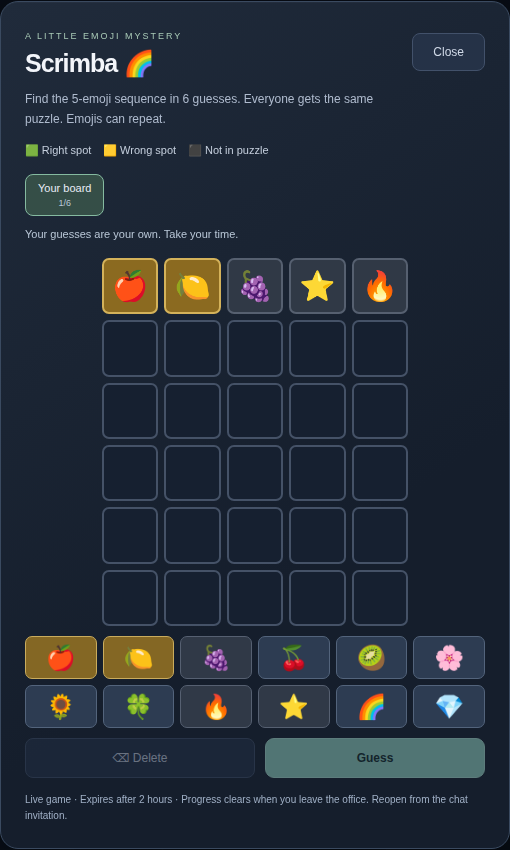
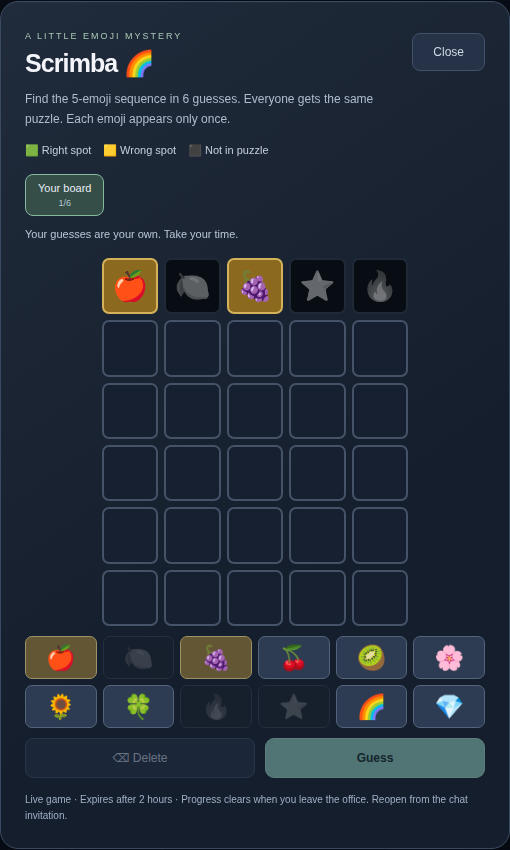
Require unique Scrimba emojis and disable absent choices

Changed region(s): [[0.0294, 0.7341, 0.6471, 0.8565], [0.3235, 0.3059, 0.8235, 0.3671], [0.1471, 0.1224, 0.4412, 0.1529]]

diff --git a/src/Scrimba.tsx b/src/Scrimba.tsx
@@ -20,10 +20,10 @@ export function Scrimba({ game, selfId, send, close, error }: {
     return () => previous?.focus();
   }, []);
 
-  const add = (emoji: string) => setDraft((current) => current.length < rules.slots ? [...current, emoji] : current);
+  const add = (emoji: string) => setDraft((current) => current.length < rules.slots && !current.includes(emoji) && keyboardMarks.get(emoji) !== 'absent' ? [...current, emoji] : current);
   const erase = () => setDraft((current) => current.slice(0, -1));
   const submit = () => {
-    if (!game || !me || me.done || draft.length !== rules.slots) return;
+    if (!game || !me || me.done || draft.length !== rules.slots || draft.some((emoji) => keyboardMarks.get(emoji) === 'absent')) return;
     send({ type: 'scrimba-guess', id: game.id, turn: me.guesses.length, emojis: draft });
     setDraft([]);
   };
@@ -40,7 +40,7 @@ export function Scrimba({ game, selfId, send, close, error }: {
     if (event.key === 'Enter' && event.target === dialog.current) { event.preventDefault(); submit(); }
   }}>
     <div className="scrimba-heading"><div><span className="scrimba-eyebrow">A LITTLE EMOJI MYSTERY</span><h2>Scrimba <span aria-hidden="true">🌈</span></h2></div><button type="button" className="secondary-button" onClick={close} aria-label="Close Scrimba">Close</button></div>
-    <p className="dialog-description">Find the {rules.slots}-emoji sequence in {rules.attempts} guesses. Everyone gets the same puzzle. Emojis can repeat.</p>
+    <p className="dialog-description">Find the {rules.slots}-emoji sequence in {rules.attempts} guesses. Everyone gets the same puzzle. Each emoji appears only once.</p>
     <p className="scrimba-legend"><span>🟩 Right spot</span><span>🟨 Wrong spot</span><span>⬛ Not in puzzle</span></p>
     {!game || !me ? <p role="status">{error || 'Joining Scrimba…'}</p> : <>
       <nav className="scrimba-players" aria-label="Scrimba players">{game.players.map((player) => <button type="button" key={player.id} aria-pressed={viewed?.id === player.id} onClick={() => setViewId(player.id)}>{player.id === selfId ? 'Your board' : player.name}<small>{player.won ? 'Solved' : player.done ? 'Finished' : `${player.guesses.length}/${rules.attempts}`}</small></button>)}</nav>
@@ -53,15 +53,15 @@ export function Scrimba({ game, selfId, send, close, error }: {
             {Array.from({ length: rules.slots }, (_, col) => {
               const emoji = guess?.emojis?.[col] ?? (active ? draft[col] : undefined);
               const mark = guess?.marks[col];
-              return <span className={`scrimba-cell ${mark ?? ''} ${emoji ? 'filled' : ''}`} key={col} aria-label={`Position ${col + 1}: ${emoji ?? (mark ? 'hidden emoji' : 'empty')}${mark ? `, ${markLabels[mark]}` : ''}`}>{emoji ?? (mark ? '?' : '')}</span>;
+              return <span className={`scrimba-cell ${mark ?? ''} ${emoji ? 'filled' : ''}`} key={col} aria-label={`Position ${col + 1}: ${emoji ?? (mark ? 'hidden emoji' : 'empty')}${mark ? `, ${markLabels[mark]}` : ''}`}><span className="scrimba-symbol">{emoji ?? (mark ? '?' : '')}</span></span>;
             })}
           </div>;
         })}
       </div>
       <div role="status" className="scrimba-result">{me.done && <><strong>{me.won ? 'You solved it! 🎉' : 'That’s six. Another mystery awaits.'}</strong><p>Solution: {game.solution?.join(' ')}</p></>}{!ownBoard && viewed?.done && <p>{viewed.won ? 'Solved' : 'Finished'} in {viewed.guesses.length} guesses</p>}</div>
       {ownBoard && !me.done && <div className="scrimba-controls">
-        <div className="scrimba-keyboard" aria-label="Emoji keyboard">{rules.emojis.map((emoji, i) => <button type="button" key={emoji} className={keyboardMarks.get(emoji) ?? ''} disabled={draft.length === rules.slots} aria-label={`Add ${emojiNames[i]}${keyboardMarks.has(emoji) ? `, ${markLabels[keyboardMarks.get(emoji) as keyof typeof markLabels]}` : ''}`} onClick={() => add(emoji)}>{emoji}</button>)}</div>
-        <div className="scrimba-actions"><button type="button" className="secondary-button" disabled={!draft.length} onClick={erase}>⌫ Delete</button><button type="button" className="primary-button" disabled={draft.length !== rules.slots} onClick={submit}>Guess</button></div>
+        <div className="scrimba-keyboard" aria-label="Emoji keyboard">{rules.emojis.map((emoji, i) => <button type="button" key={emoji} className={keyboardMarks.get(emoji) ?? ''} disabled={draft.length === rules.slots || draft.includes(emoji) || keyboardMarks.get(emoji) === 'absent'} aria-label={`Add ${emojiNames[i]}${keyboardMarks.has(emoji) ? `, ${markLabels[keyboardMarks.get(emoji) as keyof typeof markLabels]}` : ''}`} onClick={() => add(emoji)}><span className="scrimba-symbol" aria-hidden="true">{emoji}</span></button>)}</div>
+        <div className="scrimba-actions"><button type="button" className="secondary-button" disabled={!draft.length} onClick={erase}>⌫ Delete</button><button type="button" className="primary-button" disabled={draft.length !== rules.slots || draft.some((emoji) => keyboardMarks.get(emoji) === 'absent')} onClick={submit}>Guess</button></div>
       </div>}
       {error && <p className="form-error" role="alert">{error}</p>}
     </>}

diff --git a/src/styles.css b/src/styles.css
@@ -308,7 +308,8 @@ kbd { font-family: inherit; display: inline-grid; place-items: center; width: 16
 .scrimba-cell.filled { border-color: #8a9cb4; }
 .scrimba-cell.correct, .scrimba-keyboard .correct { background: #356f4d; border-color: #71b38a; }
 .scrimba-cell.present, .scrimba-keyboard .present { background: #8b6a20; border-color: #d4b25a; }
-.scrimba-cell.absent, .scrimba-keyboard .absent { background: #303946; border-color: #566070; }
+.scrimba-cell.absent, .scrimba-keyboard .absent { background: #080d14; border-color: #202936; }
+.scrimba-cell.absent .scrimba-symbol, .scrimba-keyboard .absent .scrimba-symbol { opacity: .45; filter: grayscale(1); }
 .scrimba-result { text-align: center; color: #bde0c9; font-size: 13px; line-height: 1.8; margin: 10px 0; }
 .scrimba-keyboard { display: grid; grid-template-columns: repeat(6, minmax(0, 1fr)); gap: 6px; }
 .scrimba-keyboard button { min-height: 43px; border: 1px solid #53647c; background: #2d3c52; border-radius: 7px; font-size: 24px; }

diff --git a/server/scrimba_test.go b/server/scrimba_test.go
@@ -73,8 +73,16 @@ func TestScrimbaFlow(t *testing.T) {
 	}
 	h.mu.Lock()
 	g := h.scrimba[id]
+	generatedSolution := append([]string(nil), g.Solution...)
 	g.Solution = []string{"🍎", "🍋", "🍇", "🍒", "🥝"}
 	h.mu.Unlock()
+	unique := map[string]bool{}
+	for _, emoji := range generatedSolution {
+		if unique[emoji] {
+			t.Fatal("generated solution repeats an emoji")
+		}
+		unique[emoji] = true
+	}
 	drain(alice)
 	drain(bob)
 	guess := func(c *client, emojis []string, turn int) error {
@@ -101,6 +109,12 @@ func TestScrimbaFlow(t *testing.T) {
 	}
 	if err := guess(alice, g.Solution, 0); err == nil {
 		t.Fatal("accepted replayed turn")
+	}
+	if err := guess(bob, []string{"🍎", "🍎", "🍇", "🍒", "🥝"}, 0); err == nil {
+		t.Fatal("accepted duplicate emojis")
+	}
+	if len(g.Players[bob.player.ID].Guesses) != 0 {
+		t.Fatal("invalid guess consumed a turn")
 	}
 	if err := guess(bob, []string{"🍎"}, 0); err == nil {
 		t.Fatal("accepted short guess")
@@ -130,8 +144,17 @@ func TestScrimbaFlow(t *testing.T) {
 	if len(lateStates) != 1 || len(lateStates[0].Players) != 3 {
 		t.Fatal("late join missing current state")
 	}
+	if err := guess(late, []string{"🔥", "⭐", "🌈", "💎", "🌻"}, 0); err != nil {
+		t.Fatal(err)
+	}
+	if err := guess(late, []string{"🔥", "🍎", "🍇", "🍒", "🥝"}, 1); err == nil {
+		t.Fatal("accepted confirmed absent emoji")
+	}
+	if len(g.Players[late.player.ID].Guesses) != 1 {
+		t.Fatal("rejected absent emoji consumed a turn")
+	}
 	for i := 0; i < 6; i++ {
-		if err := guess(bob, []string{"🔥", "🔥", "🔥", "🔥", "🔥"}, i); err != nil {
+		if err := guess(bob, []string{"🍋", "🍎", "🍇", "🍒", "🥝"}, i); err != nil {
 			t.Fatal(err)
 		}
 	}

diff --git a/server/scrimba.go b/server/scrimba.go
@@ -140,12 +140,15 @@ func (h *hub) startScrimbaLocked(c *client) error {
 		return errors.New("could not start Scrimba")
 	}
 	g := &scrimbaGame{Creator: c.player.ID, ID: hex.EncodeToString(id), CarpetID: c.player.CarpetID, Created: h.now(), Players: map[string]*scrimbaPlayer{}, Solution: make([]string, scrimbaRules.Slots)}
+	choices := append([]string(nil), scrimbaRules.Emojis...)
 	for i := range g.Solution {
-		n, err := rand.Int(rand.Reader, big.NewInt(int64(len(scrimbaRules.Emojis))))
+		n, err := rand.Int(rand.Reader, big.NewInt(int64(len(choices))))
 		if err != nil {
 			return errors.New("could not create Scrimba puzzle")
 		}
-		g.Solution[i] = scrimbaRules.Emojis[n.Int64()]
+		index := int(n.Int64())
+		g.Solution[i] = choices[index]
+		choices = append(choices[:index], choices[index+1:]...)
 	}
 	g.Players[c.player.ID] = &scrimbaPlayer{ID: c.player.ID, Name: c.player.Name, Guesses: []scrimbaGuess{}}
 	h.scrimba[g.ID] = g
@@ -199,7 +202,23 @@ func (h *hub) handleScrimbaLocked(c *client, data []byte) error {
 		if len(msg.Emojis) != scrimbaRules.Slots {
 			return errors.New("choose five emojis for your guess")
 		}
+		absent := map[string]bool{}
+		for _, previous := range p.Guesses {
+			for i, mark := range previous.Marks {
+				if mark == "absent" {
+					absent[previous.Emojis[i]] = true
+				}
+			}
+		}
+		seen := map[string]bool{}
 		for _, emoji := range msg.Emojis {
+			if absent[emoji] {
+				return errors.New("this emoji is already confirmed not in the puzzle")
+			}
+			if seen[emoji] {
+				return errors.New("each emoji can only appear once in a guess")
+			}
+			seen[emoji] = true
 			valid := false
 			for _, choice := range scrimbaRules.Emojis {
 				if emoji == choice {

diff --git a/README.md b/README.md
@@ -61,9 +61,10 @@ To start them separately, run `npm run dev:backend` and
   browser storage. Recipients can still copy messages they receive.
 - Type **/scrimba** in carpet chat to start an emoji guessing game. Your board
   opens immediately and others on the carpet get a **Launch Scrimba** invitation.
-  Find the shared five-emoji sequence in six guesses; repeated emojis are allowed.
-  Green means the correct position, yellow means the emoji belongs elsewhere,
-  and gray means no remaining match. Each player solves independently. Click a
+  Find the shared five-emoji sequence in six guesses. Solutions and guesses use
+  unique emojis. Green means the correct position; yellow means it belongs
+  elsewhere. Dark tiles mark emojis absent from the puzzle and disable those
+  keys for later guesses. Each player solves independently. Click a
   player's name to inspect their board: only colors are shared until you finish
   your own puzzle, then the emojis and solution are revealed. Close and reopen
   from the invitation to continue. Scrimba uses WebSocket events and transient
